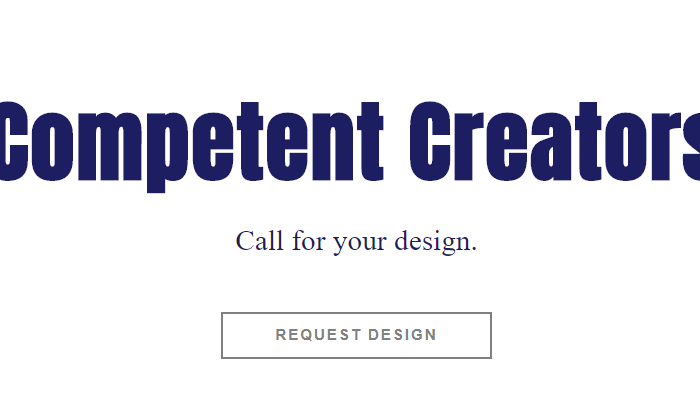
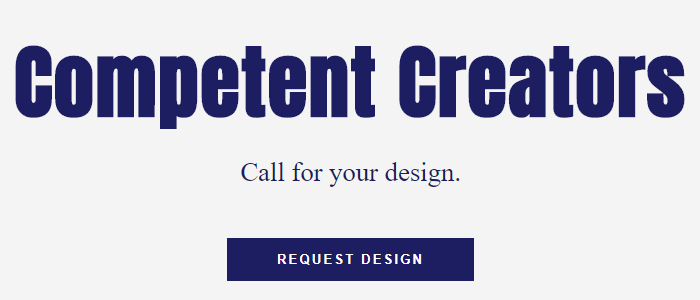
v4.1
- Various fixed for mobile display.
- Updated links.

Changed region(s): [[0.0, 0.15, 1.0, 0.48], [0.3, 0.78, 0.72, 0.96], [0.33, 0.54, 0.69, 0.66]]

diff --git a/index.html b/index.html
@@ -1,13 +1,13 @@
 <!--
     
-Website Version v4.0
+Website Version v4.1
 
-Made by @J0AXY on Twitter!
+Made by @jordanCoding on Twitter!
 
-https://joaxy.github.io
-https://github.com/Joaxy
-https://twitter.com/J0AXY
-https://instagram.com/J0AXY
+https://jordanCoding.github.io
+https://github.com/codingJordan
+https://twitter.com/jordanCoding
+https://www.youtube.com/channel/UCpBrGERV1KaIGjsQPz8z2Wg
 
 -->
 
@@ -72,7 +72,7 @@ https://instagram.com/J0AXY
                         </div>
                     </div>
                     <div class="container-project">
-                        <img src="Images/website2.png" width="300px" draggable="false"
+                        <img src="Images/radio2bz.png" width="300px" draggable="false"
                             alt="A website created by Jordan">
                         <div class="container-info">
                             <h1>Radio 2BZ</h1>
@@ -87,7 +87,7 @@ https://instagram.com/J0AXY
                         </div>
                     </div>
                     <div class="container-project">
-                        <img src="Images/website4.png" width="300px" draggable="false"
+                        <img src="Images/inappfree.png" width="300px" draggable="false"
                             alt="A website created by Jordan">
                         <div class="container-info">
                             <h1>In-App Free</h1>

diff --git a/whoami.html b/whoami.html
@@ -1,13 +1,13 @@
 <!--
     
-Website Version v4.0
+Website Version v4.1
 
-Made by @J0AXY on Twitter!
+Made by @jordanCoding on Twitter!
 
-https://joaxy.github.io
-https://github.com/Joaxy
-https://twitter.com/J0AXY
-https://instagram.com/J0AXY
+https://jordanCoding.github.io
+https://github.com/codingJordan
+https://twitter.com/jordanCoding
+https://www.youtube.com/channel/UCpBrGERV1KaIGjsQPz8z2Wg
 
 -->
 
@@ -43,7 +43,7 @@ https://instagram.com/J0AXY
         <div class="row">
         <div class="single-text">
             <h1>Who am I?</h1>
-            <h4>Hello there! My name is Jordan. You may know me as <a href="https://twitter.com/J0AXY">@J0AXY</a> on Twitter. I build and design websites for people.</h4>
+            <h4>Hello there! My name is Jordan. You may know me as <a href="https://twitter.com/jordanCoding">@jordanCoding</a> on Twitter. I build and design websites for people.</h4>
         </div>
         <div class="single-text">
             <h1>How did I start?</h1>

diff --git a/CSS/styles.css b/CSS/styles.css
@@ -1,13 +1,13 @@
 /*
 
-Website Version v4.0
+Website Version v4.1
 
-Made by @J0AXY on Twitter!
+Made by @jordanCoding on Twitter!
 
-https://joaxy.github.io
-https://github.com/Joaxy
-https://twitter.com/J0AXY
-https://instagram.com/J0AXY
+https://jordanCoding.github.io
+https://github.com/codingJordan
+https://twitter.com/jordanCoding
+https://www.youtube.com/channel/UCpBrGERV1KaIGjsQPz8z2Wg
 
 */
 

diff --git a/CSS/who.css b/CSS/who.css
@@ -1,13 +1,13 @@
 /*
 
-Website Version v4.0
+Website Version v4.1
 
-Made by @J0AXY on Twitter!
+Made by @jordanCoding on Twitter!
 
-https://joaxy.github.io
-https://github.com/Joaxy
-https://twitter.com/J0AXY
-https://instagram.com/J0AXY
+https://jordanCoding.github.io
+https://github.com/codingJordan
+https://twitter.com/jordanCoding
+https://www.youtube.com/channel/UCpBrGERV1KaIGjsQPz8z2Wg
 
 */
 
